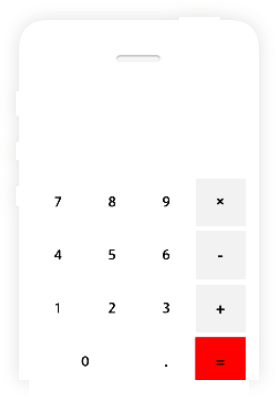
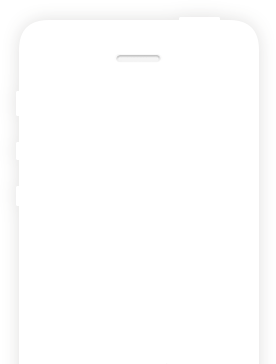
.

diff --git a/punicapp/src/components/pages/home-sections/section-2.vue b/punicapp/src/components/pages/home-sections/section-2.vue
@@ -93,7 +93,32 @@
         <div class="info">
           <p class="title">Сколько стоит разработка?</p>
           <div class="calculator">
-            <img ondragstart="return false" src="../../../assets/images/section-2/calculator.png" alt="">
+            <div class="buttons">
+              <input @input="inputValue($event.target)" class="value" :value="value">
+              <div class="buttons-row">
+                <div @click="calculate('num', '7')" class="btn num">7</div>
+                <div @click="calculate('num', '8')" class="btn num">8</div>
+                <div @click="calculate('num', '9')" class="btn num">9</div>
+                <div @click="calculate('method', '*')" class="btn method">×</div>
+              </div>
+              <div class="buttons-row">
+                <div @click="calculate('num', '4')" class="btn num">4</div>
+                <div @click="calculate('num', '5')" class="btn num">5</div>
+                <div @click="calculate('num', '6')" class="btn num">6</div>
+                <div @click="calculate('method', '-')" class="btn method">-</div>
+              </div>
+              <div class="buttons-row">
+                <div @click="calculate('num', '1')" class="btn num">1</div>
+                <div @click="calculate('num', '2')" class="btn num">2</div>
+                <div @click="calculate('num', '3')" class="btn num">3</div>
+                <div @click="calculate('method', '+')" class="btn method">+</div>
+              </div>
+              <div class="buttons-row buttons-row-last">
+                <div @click="calculate('num', '0')" class="btn btn-last-1 num">0</div>
+                <div @click="calculate('num', '.')" class="btn btn-last-2 num">.</div>
+                <div @click="calculate('method', '=')" class="btn btn-last-3 equal"> = </div>
+              </div>
+            </div>
           </div>
           <button class="calculate">Рассчитать стоимость</button>
         </div>
@@ -110,6 +135,46 @@
 
 <script>
 export default {
-  name: "Section-2"
+  name: "Section-2",
+  data: () => ({
+    values: [''],
+    valueHistory: ''
+  }),
+  computed: {
+    value() {
+      return this.values.join(' ')
+    }
+  },
+  methods: {
+    calculate (type, value) {
+      let previusValue = this.values[this.values.length - 1]
+      this.values.splice([this.values.length - 1], 1)
+      if(type === 'num') {
+
+        this.valueHistory = previusValue + value.toString()
+        this.values.push(this.valueHistory)
+      } else if (type === 'method') {
+        if(value !== '=') {
+          if(Number(this.values[this.values.length - 1])) {
+            console.log(1)
+            this.values.push(this.valueHistory)
+            this.values.push(value)
+          } else {
+            console.log(2)
+            this.values.push(this.valueHistory)
+            this.values.push(value)
+          }
+        } else {
+          // this.values = []
+          // let calculatedValue = ''
+          // console.log(typeof *)
+        }
+      }
+    },
+    inputValue(e) {
+      let str = e.value.toString()
+      this.values = str.split(' ')
+    }
+  }
 };
 </script>

diff --git a/punicapp/src/assets/scss/app.scss b/punicapp/src/assets/scss/app.scss
@@ -821,14 +821,62 @@ html::-webkit-scrollbar-thumb {
   }
   & .calculator {
     position: absolute;
-    bottom: -20px;
-    left: 0px;
+    bottom: 0px;
+    left: 110px;
     z-index: 4;
-    @media screen and (max-width: 968px) {
-      & {
-        position: static;
-        margin-bottom: -20px;
-      } 
+    width: 280px;
+    height: 360px;
+    background: url("../images/section-2/calculator.png");
+    & .buttons {
+      position: absolute;
+      bottom: 0;
+      left: 0;
+      width: 100%;
+      padding: 0px 30px;
+      & .value {
+        width: 100%;
+        text-align: right;
+        outline: none;
+        border: none;
+        font-family: 'g-Bold';
+        font-size: 2rem;
+        color: #F3AD5B;
+      }
+      & .buttons-row {
+        display: flex;
+        align-items: center;
+        justify-content: space-between;
+        width: 100%;
+        margin: 7px 0px; 
+        &-last {
+          justify-content: initial;
+          margin-bottom: 5px;
+          & .btn-last-1 {
+            margin: 0px auto;
+          }
+          & .btn-last-2 {
+            margin-left: auto;
+            margin-right: 19px;
+          }
+        }
+        & .btn {
+          height: 40px;
+          width: 40px;
+          font-family: 'g-Bold';
+          font-size: 1rem;
+          line-height: 0;
+          display: flex;
+          align-items: center;
+          justify-content: center;
+          padding: 0px;
+          &.method {
+            background: #F2F2F2;
+          }
+          &.equal {
+            background: #EA3223;
+          }
+        }
+      }
     }
   }
   & .bg-1 {
